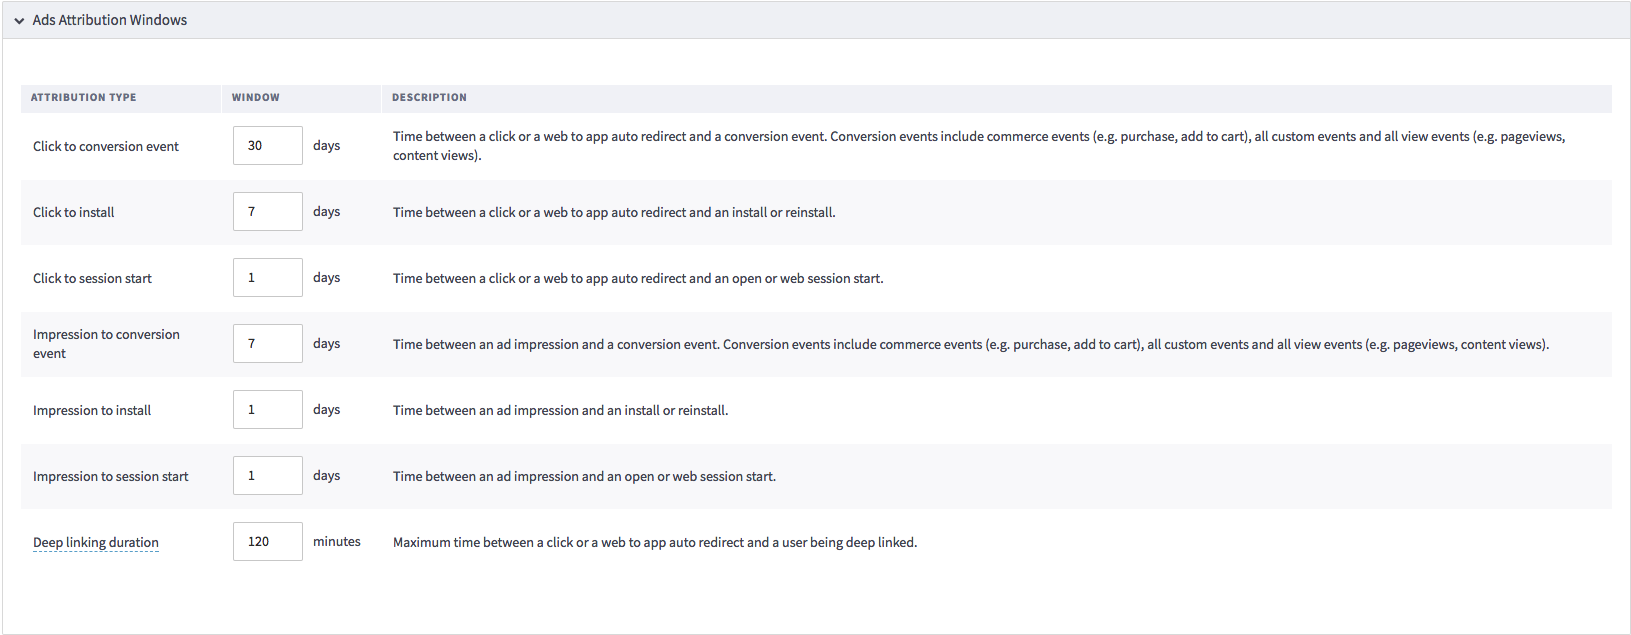
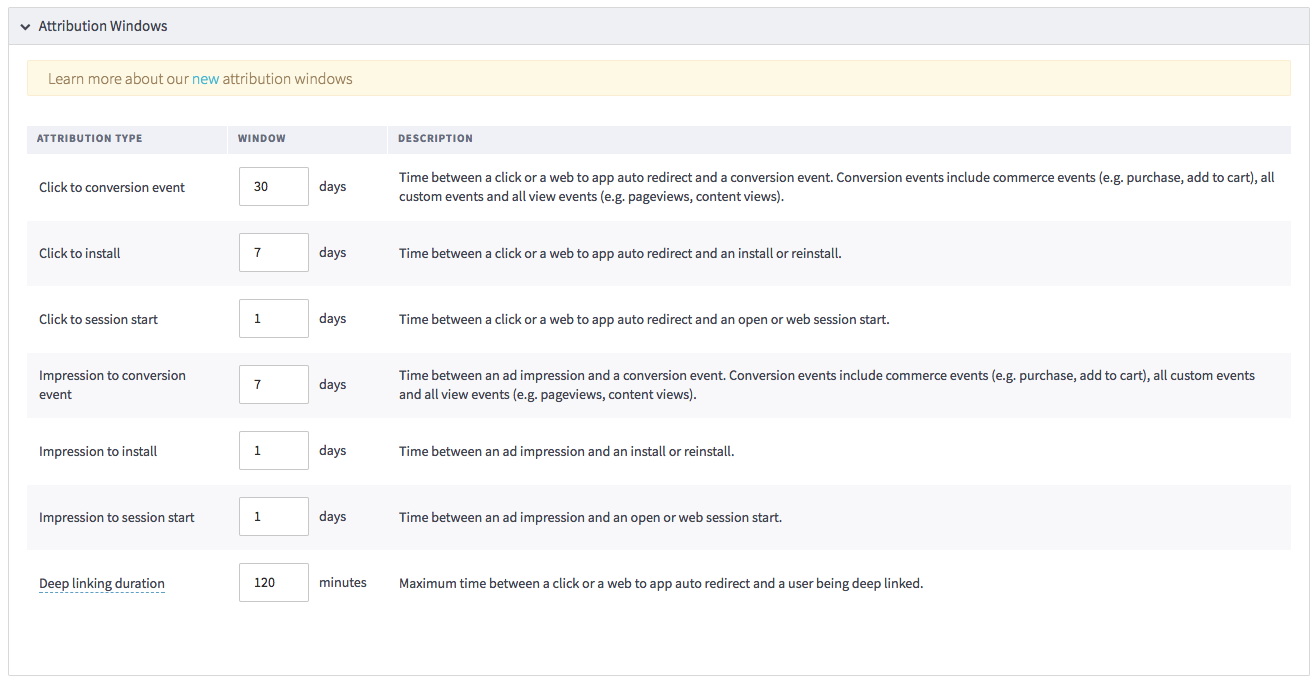
update for new attribution windows

diff --git a/src/pages/deep-linked-ads/branch-universal-ads.md b/src/pages/deep-linked-ads/branch-universal-ads.md
@@ -101,7 +101,9 @@ For customer experience and data accuracy, please do not set your deep linking w
 
 You can edit your attribution windows under Link Settings > Attribution Windows. View through attribution is not yet available, but will be coming soon.
 
-![image](/img/pages/deep-linked-ads/branch-universal-ads/attribution-windows.png)
+![image](/img/pages/dashboard/unified-analytics/attribution-windows.png)
+
+Learn more about account level attribution windows in [Unified Analytics](/pages/dashboard/unified-analytics/#attribution-windows).
 
 #### Link Level Attribution Windows
 
@@ -109,13 +111,15 @@ To set attribution windows on a link level, you can append the following paramet
 
 Key | Example Link
 --- | ---
+$click_install_window_days| https://branchster.app.link/hpNVE52gxE?$click_install_window_days=3
 $click_session_start_window_days | https://branchster.app.link/hpNVE52gxE?$click_session_start_window_days=7
 $click_conversion_window_days | https://branchster.app.link/hpNVE52gxE?$click_session_start_window_days=30
+$impression_install_window_days| https://branchster.app.link/hpNVE52gxE?$impression_install_window_days=3
 $impression_session_start_window_days | https://branchster.app.link/hpNVE52gxE?$click_session_start_window_days=1
 $impression_conversion_window_days | https://branchster.app.link/hpNVE52gxE?$click_session_start_window_days=7
 
 !!! warning "Link Level Attribution Support for Standard Branch links"
-    As of July 2017, link level attribution window setting is only available on standard Branch links. Special Branch links such as the ones used for Google's Universal App Campaign or Play Store links with Branch link Ids are currently not supported.
+    As of July 2017, link level attribution window setting is only available on standard Branch links. Special Branch links such as the ones used for Google's Universal App Campaign or Play Store links with Branch link id parameters are currently not supported.
 
 ## Support
 
